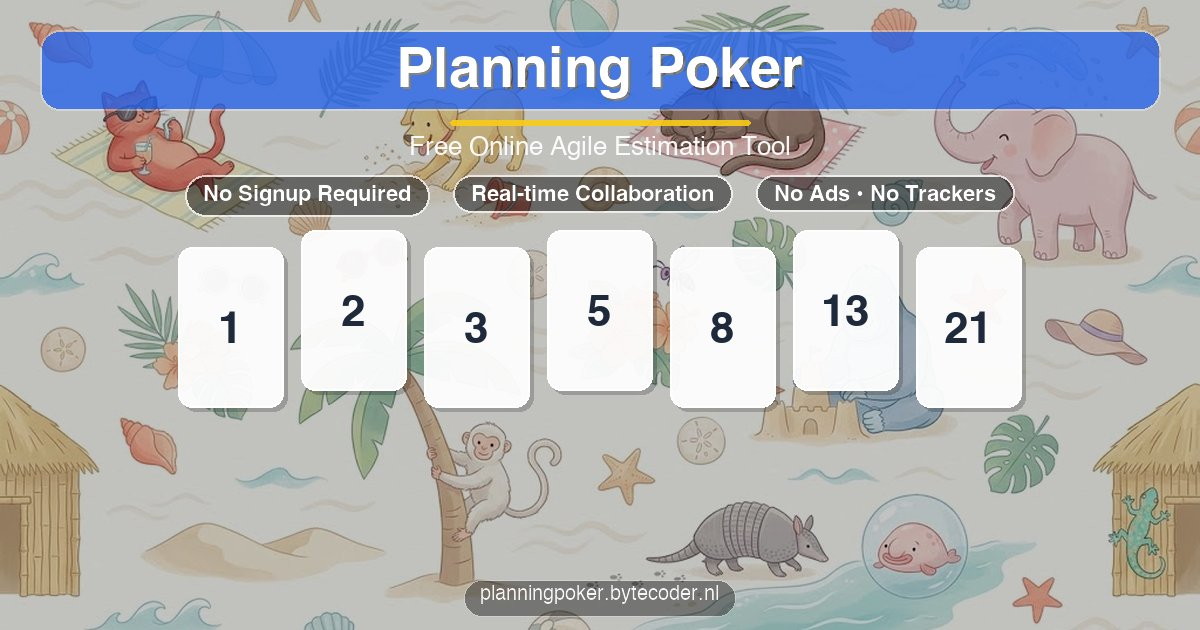
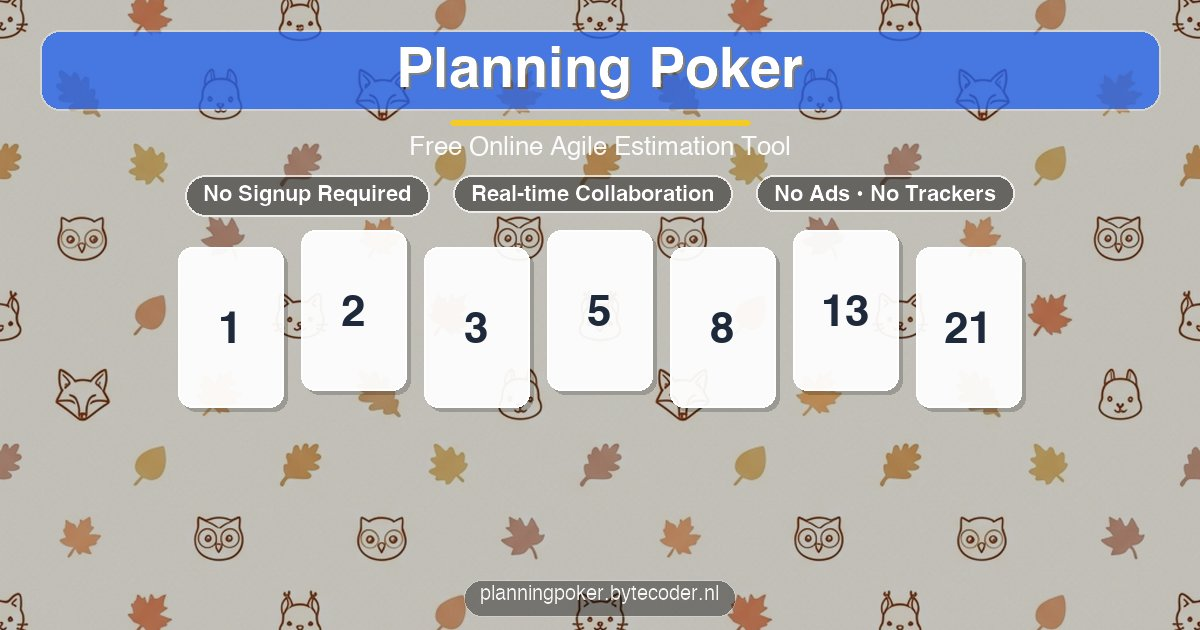
fix(share): regenerate og/twitter cards with autumn backdrop + cache-bust
Social previews still showed the summer card generated in June while the
app UI uses the autumn theme. Regenerate og-image.jpg/twitter-card.jpg
from the autumn backdrop and append ?v=autumn-2026 to the og:image /
twitter:image URLs in index.html and SEO.js so platform caches refresh
(nginx serves images as immutable for 1y). Also make
generate-social-cards.py auto-detect the seasonal backdrop by month,
with --backdrop as override.

diff --git a/client/public/index.html b/client/public/index.html
@@ -20,7 +20,7 @@
     <meta property="og:url" content="https://planningpoker.bytecoder.nl/" />
     <meta property="og:title" content="Free Online Planning Poker – No Signup, No Ads, No Tracking" />
     <meta property="og:description" content="Free real-time Planning Poker for Agile teams. Privacy-first: no signup, no ads, no tracking — votes vanish within 24 hours." />
-    <meta property="og:image" content="https://planningpoker.bytecoder.nl/images/og-image.jpg" />
+    <meta property="og:image" content="https://planningpoker.bytecoder.nl/images/og-image.jpg?v=autumn-2026" />
     <meta property="og:image:width" content="1200" />
     <meta property="og:image:height" content="630" />
     <meta property="og:image:alt" content="Playful Planning Poker cards over a warm seasonal backdrop" />
@@ -32,7 +32,7 @@
     <meta property="twitter:url" content="https://planningpoker.bytecoder.nl/" />
     <meta property="twitter:title" content="Free Online Planning Poker – No Signup, No Ads, No Tracking" />
     <meta property="twitter:description" content="Free real-time Planning Poker for Agile teams. Privacy-first: no signup, no ads, no tracking — votes vanish within 24 hours." />
-    <meta property="twitter:image" content="https://planningpoker.bytecoder.nl/images/twitter-card.jpg" />
+    <meta property="twitter:image" content="https://planningpoker.bytecoder.nl/images/twitter-card.jpg?v=autumn-2026" />
     <meta property="twitter:image:alt" content="Playful Planning Poker cards over a warm seasonal backdrop" />
     
     <!-- Additional SEO -->

diff --git a/client/src/components/SEO.js b/client/src/components/SEO.js
@@ -8,7 +8,7 @@ const SEO = ({
   title = 'Free Online Planning Poker – No Signup, No Ads, No Tracking',
   description = 'Free real-time Planning Poker for Agile teams. Privacy-first: no signup, no ads, no tracking — votes vanish within 24 hours. Fibonacci & T-shirt cards.',
   keywords = 'planning poker, agile estimation, scrum poker, story points, agile tools, planning poker no signup, planning poker no ads, privacy first planning poker',
-  ogImage = 'https://planningpoker.bytecoder.nl/images/og-image.jpg',
+  ogImage = 'https://planningpoker.bytecoder.nl/images/og-image.jpg?v=autumn-2026',
   url = 'https://planningpoker.bytecoder.nl/',
   noindex = false
 }) => {
